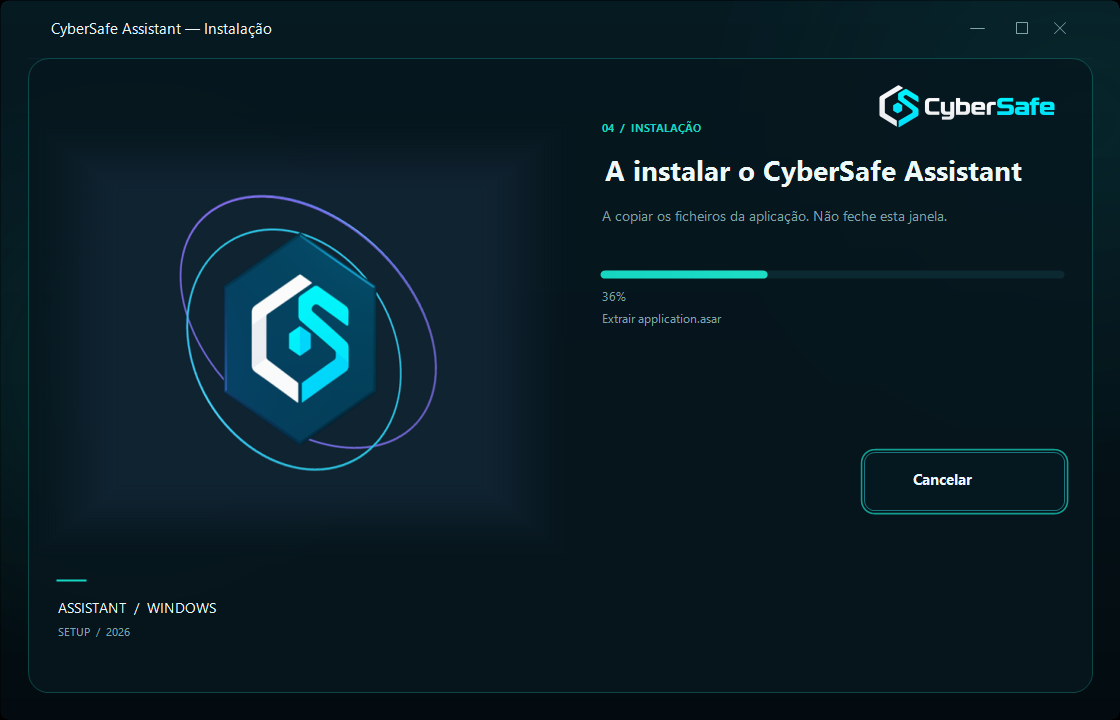
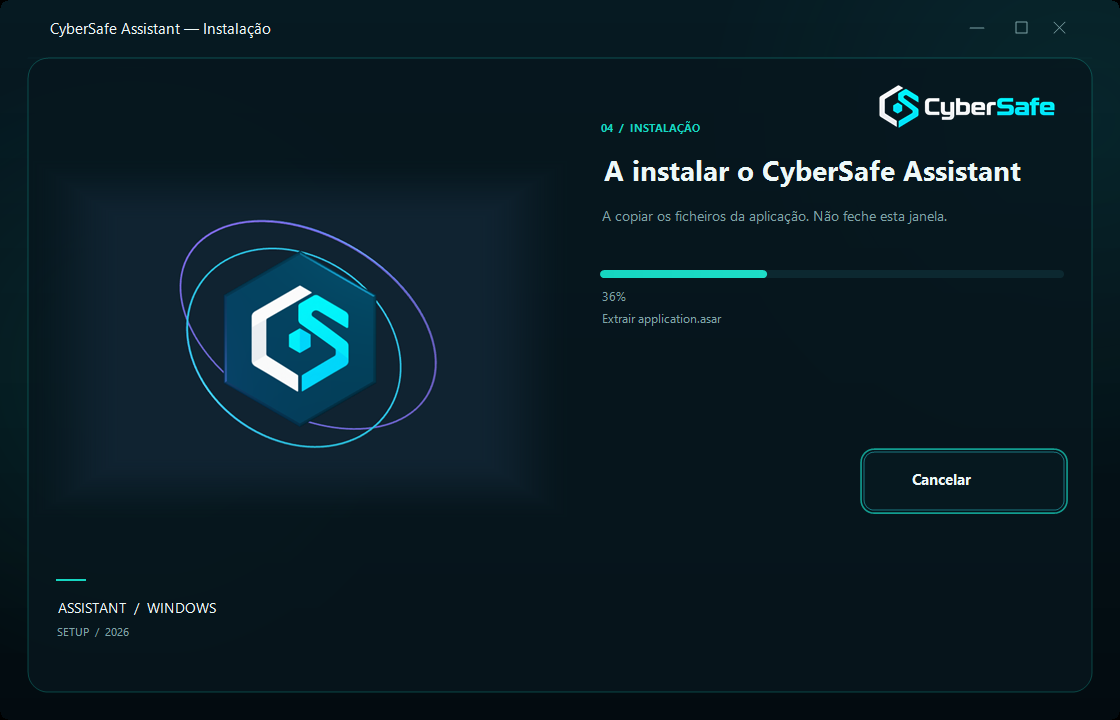
fix(setup): derive the exe folder with an explicit backslash
find_last_of ficou so com '/' depois do escape, mas GetModuleFileNameW devolve
'\', logo a pasta do executavel nunca era obtida e o cwd sem assets desenhava
um ecra vazio. O separador passa a ser um codigo de caracter explicito e as
capturas dos dois cenarios voltam a ser identicas.

🤖 Generated with Codebuff

diff --git a/scripts/setup-ui/main.cpp b/scripts/setup-ui/main.cpp
@@ -39,11 +39,12 @@ static bool LoadPng(const wchar_t* rel, Bitmap** out){
   wchar_t exe[MAX_PATH];
   GetModuleFileNameW(nullptr, exe, MAX_PATH);
   std::wstring dir(exe);
-  size_t cut = dir.find_last_of(L"\\");
+  const wchar_t sep = static_cast<wchar_t>(92);
+  size_t cut = dir.find_last_of(sep);
   if(cut != std::wstring::npos) dir = dir.substr(0, cut);
-  std::wstring bases[3] = { L"", dir, dir + L"\..\.." };
+  std::wstring bases[3] = { L"", dir, dir + L"/../.." };
   for(int i = 0; i < 3; i++){
-    std::wstring full = bases[i].empty() ? std::wstring(rel) : bases[i] + L"\\" + rel;
+    std::wstring full = bases[i].empty() ? std::wstring(rel) : bases[i] + L"/" + rel;
     if(FileExistsW(full)){
       Bitmap* b = new Bitmap(full.c_str());
       if(b->GetLastStatus() == Ok){ *out = b; return true; }
@@ -53,8 +54,8 @@ static bool LoadPng(const wchar_t* rel, Bitmap** out){
   return false;
 }
 static void LoadImages(){
-  LoadPng(L"assets\branding\scene\orbital-b-scene.png", &g_scene);
-  LoadPng(L"assets\branding\source\07_CyberSafe_horizontal_lockup.png", &g_lockup);
+  LoadPng(L"assets/branding/scene/orbital-b-scene.png", &g_scene);
+  LoadPng(L"assets/branding/source/07_CyberSafe_horizontal_lockup.png", &g_lockup);
   BuildSceneSoft(960);
 }
 
